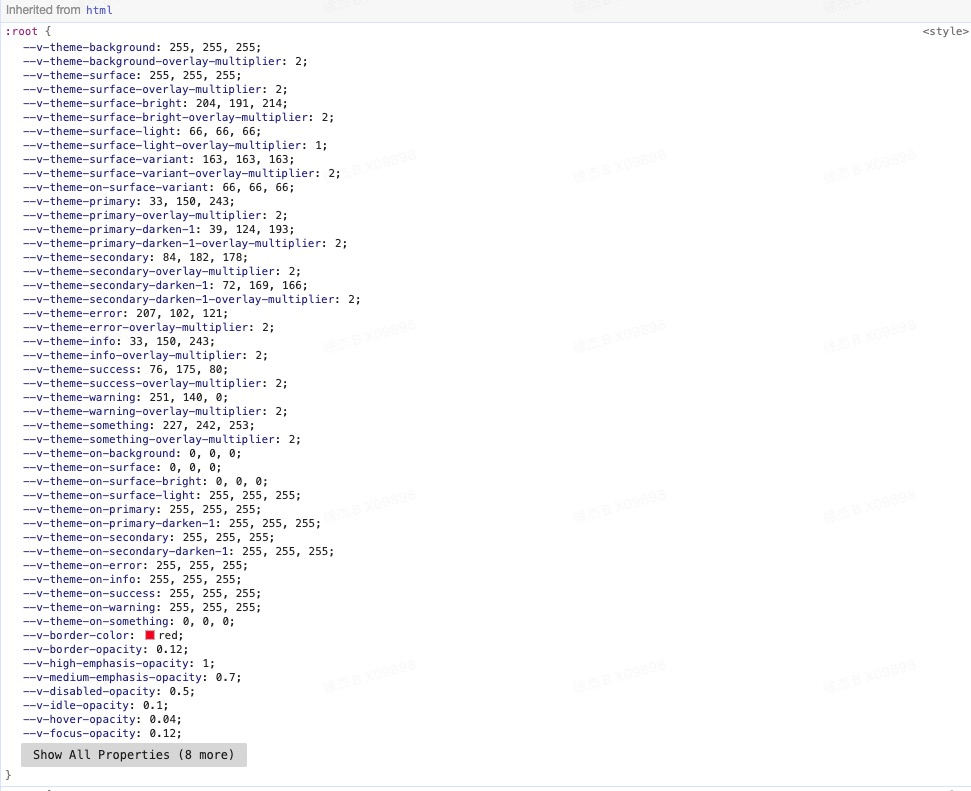
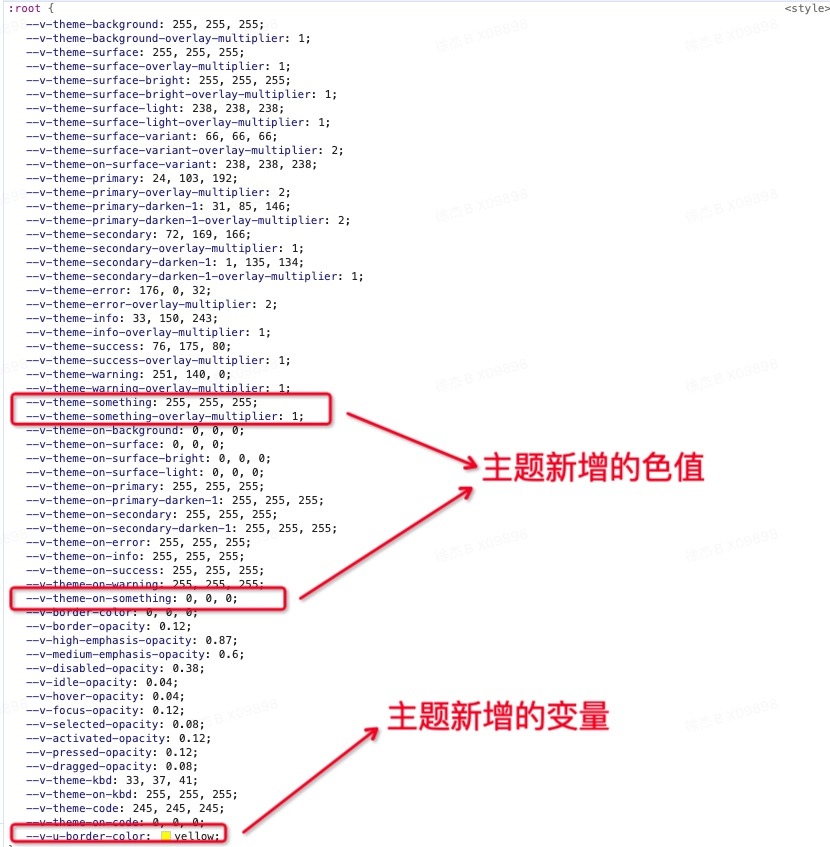
1

diff --git a/技术文档总结/Vuetify组件库试用.md b/技术文档总结/Vuetify组件库试用.md
@@ -35,7 +35,7 @@
 * Vuetify 允许您在设置应用程序时全局或每个组件设置默认 prop 值
 
 ```ts
-// plugins/vuetify.js
+// plugins/vuetify.ts
 import { createVuetify } from 'vuetify'
 import { VBtn } from 'vuetify/components';
 
@@ -75,11 +75,10 @@ export default createVuetify({
 * 默认提供程序允许您为应用程序的某个部分中的组件提供特定的默认 prop 值
   
 ```ts
-// xxx-xxx.vue
 // defaults 属性与 createVuetify 的 defaults 一致(也可以使用全局定义的别名)
+// xxx-xxx.vue
 <v-defaults-provider
-  :defaults="{'VBtn':{'color':'primary','size':'large','variant':'tonal'}}"
->
+  :defaults="{'VBtn':{'color':'primary','size':'large','variant':'tonal'}}">
   <v-btn>Button</v-btn>
 </v-defaults-provider>
 ```
@@ -91,7 +90,9 @@ export default createVuetify({
 ```scss
 // 修改当前文件后，需要重新编译项目后才会生效
 // NOTE: 有些属性可以在多个地方进行配置，权重关系如下
-// 权重关系：settings.scss < 组件内 < vuetify.ts > 组件内 + ！important
+// 权重关系：settings.scss < 组件内 < vuetify.ts < 组件内 + ！important
+
+// style/settings.scss
 @use 'vuetify/settings' with (
   // btn
   $button-height: 40px,
@@ -130,6 +131,26 @@ TODO： Vue 路由切换级别的动画效果实现
 
 <img src="./img/Vuetify组件库试用/组件动画.gif" alt="GIF Description" />
 
+```html
+<v-btn
+  class="ma-2"
+  color="primary"
+  @click="expand = !expand"
+>
+  Expand Transition
+</v-btn>
+
+<!-- 被 v-expand-transition 组件包含的内容将拥有动画效果 -->
+<v-expand-transition>
+  <v-card
+    v-show="expand"
+    class="mx-auto bg-secondary"
+    height="100"
+    width="100"
+  ></v-card>
+</v-expand-transition>
+```
+
 ### 3.3 调色板
 
 * 开发者可以直接访问 Vuetify 提供的 颜色值，并通过 scss 和 JS，这些值可以在样式表、组件、color 属性上使用
@@ -141,7 +162,7 @@ TODO： Vue 路由切换级别的动画效果实现
 </v-btn>
 ```
 
-* 规范中的每种颜色都会转换为背景和文本变体，以便通过`类`在应用程序中进行样式设置
+* 规范中的每种颜色都会转换为背景和文本变体，以便通过 `类名` 在应用程序中进行样式设置
 
 ```scss
 // text语法格式： text-{color}-{lighten|darken}-{n}
@@ -155,7 +176,7 @@ TODO： Vue 路由切换级别的动画效果实现
 
 * Vuetify 将常用的 CSS 样式(阴影、颜色、间距、flex)集合都封装成了 CSS 类名，我们仅需要添加类名便能得到对应的样式，很少需要手动去写 CSS 样式代码
 * 通过 js 执行操作 CSS 样式会比较繁琐，在 Vuetify 中可以直接用 JS 来操作类名(操作类名较简单)，来实现改变样式的效果
-* TODO: 带来的问题是，CSS 的类名要去哪里查询？是否有插件的支持
+TODO: 带来的问题是，CSS 的类名要去哪里查询？是否有插件的支持
 * 和传统 css 开发形式的好处：1. 项目能达到统一的样式风格 2. 用 vuetify 提供的类名能够更好的实现响应式开发(配合断点去使用)
 
 1. border-radius 辅助类 详见：工具类 - 边距圆角
@@ -207,23 +228,31 @@ size: auto screen 0 25 50 75 100 // screen 仅高度可用， 数字对应的是
 ## 四、响应式布局
 
 * 栅格系统、显示辅助类、断点
+
+### 4.1 断点
+
 * Vuetify 还在 JS 层面提供了当前设备的类型，拥有 JS 代码的响应式适配(eg: 按钮点击后 pc 需要弹窗再次确认，移动端则直接进行操作)
 * 裁定断点，在不同的断点内应用不同的样式
 * 移动优先(xs 可忽略)： .text-xs-h1 除了手机外，还能向上影响其他的断点，.text-md-h1 笔记本、桌面端、超大屏
 
-```scss
-> 1904px        超大屏 xl
-1264px><1904px  桌面端 lg
-960px><1264px   笔记本 md
-600px><960px    平板 sm
-<600px          手机 xs
-```
+| 范围               |       类型                   |   代码   |
+| :--------------   | :---------------             | :-----  |
+| < 600px           |    小型到大型的手机             |    xs   |
+| 600px > < 960px   |    小型到中型的平板             |  sm     |
+| 960px > < 1280px  |    大型平板到笔记本电脑          |    md   |
+| 1280px > < 1920px |     从笔记本电脑到桌面电脑       | lg      |
+| 1920px > < 2560px | 分辨率 1080p 到 1440p 的桌面电脑|  xl      |
+| > 2560px          |   4K 和超宽屏幕                |  xxl     |
+
+### 4.2 栅格布局
+
+TODO：待使用，应该是适合 PC 端，移动端应该比较少用到，在家配合翻译查看
 
 ## 五、主题
 
-### 主题的切换
+### 5.1 主题的切换
 
-* Vuetify 预装了两个主题 `dark` `light`, 可
+* Vuetify 预装了两个主题 `dark` `light`
 
 ```ts
 // 1. 配置默认主题
@@ -247,7 +276,7 @@ function toggleTheme () {
 </script>
 ```
 
-### 自定义主题
+### 5.2 自定义主题
 
 * Vuetify 支持用户自定义主题
 
@@ -255,7 +284,7 @@ function toggleTheme () {
 
 ```ts
 // 1. 自定义主题
-// vuetify.ts
+// plugins/vuetify.ts
 import { createApp } from 'vue'
 import { createVuetify, type ThemeDefinition  } from 'vuetify'
 const myCustomLightTheme: ThemeDefinition = {
@@ -277,9 +306,10 @@ const myCustomLightTheme: ThemeDefinition = {
     warning: '#FB8C00',
     something: '#00ff00' // 自定义的一个颜色
   },
-  variables: { // 自定义的变量
+  variables: {
     'border-color': '#000000',
     'border-opacity': 0.12,
+    'u-border-color': 'red' // 自定义的一个颜色变量
   }
 }
 export default createVuetify({
@@ -308,17 +338,21 @@ export default createVuetify({
 }
 ```
 
-3. border-color、border-opacity 是用户自定义的变量
+3. border-color、border-opacity 是 Vuetify 内置的变量
+4. u-border-color 是用户自定义的变量
 
 ```css
 .btn {
   border: 5px solid var(--v-border-color);
+  border: 5px solid var(--v-u-border-color);
 }
 ```
 
+* 未修改主题状态
+
 ![主题变量](./img/Vuetify组件库试用/主题变量.jpg)
 
-### 局部主题
+### 5.3 局部主题
 
 * Vuetify 支持一个应用程序中同时存在多种主题
 
@@ -346,3 +380,35 @@ export default createVuetify({
 * tree-shaking：移除 JavaScript 上下文中的未引用代码 (dead-code)
 * 依赖于 ES2015 的模块语法. 模块的导入（import）和导出（export）语句必须是静态的，也就是说，导入和导出的内容在编译时就能确定，而不是在运行时。这样工具链才能分析出哪些模块或哪些导出是实际被使用的。
 * Vuetify 自动支持 tree-shaking 而无需手动导入
+
+## 七、基础组件的使用
+
+* 示例中使用的全是 Vue3 的语法，在学习官网之前请先掌握 Vue3 的基础语法，重点学习插槽，具名插槽，作用域插槽
+
+### 组件特点
+
+* 颗粒度更小，业务组件需要单独进行封装
+* bottom sheets 仅仅规范了一个底部面板的样式，面板内可以包含的内容是任意的，推荐 v-card v-list v-sheet，并且确认，取消按钮的逻辑也需要自己实现 。但是 u-view picker 直接在底部面板中内置了 单列，多列，时间，地区等常见场景以及确认，取消按钮，底部安全区
+
+### 骨架的功能
+
+* 当前 H5 页面的一个较大缺陷，加载 -> 加载完成 这个过程，页面会由`空白`变成`有内容`。页面的切换比较生硬。
+* Vuetify 内置了诸多内置类型：actions， article，avatar，button，card ......
+
+```html
+<!-- 1. 可以基于内置类型进行自身的翻倍 -->
+<v-skeleton-loader type="button@2">
+  ...
+</v-skeleton-loader>
+
+<!-- 2.可以基于内置类型进行组合 -->
+<v-skeleton-loader type="button, article, card">
+  ...
+</v-skeleton-loader>
+```
+
+### 栅格布局
+
+* Vuetify 带有一个使用 flexbox 构建的 12 点网络系统
+* 栅格布局可以搭配着断点进行使用
+TODO：栅格布局的偏移量和其他特性的使用
